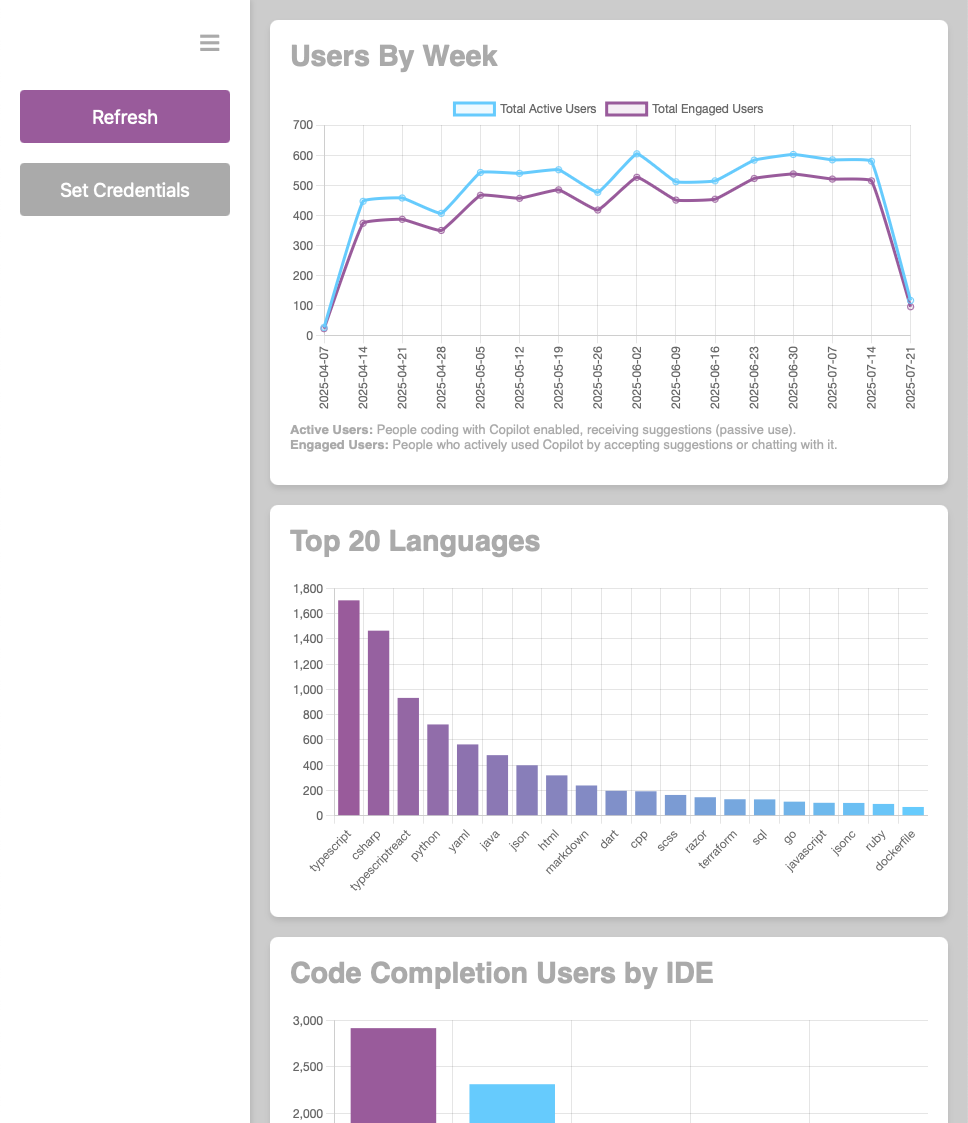
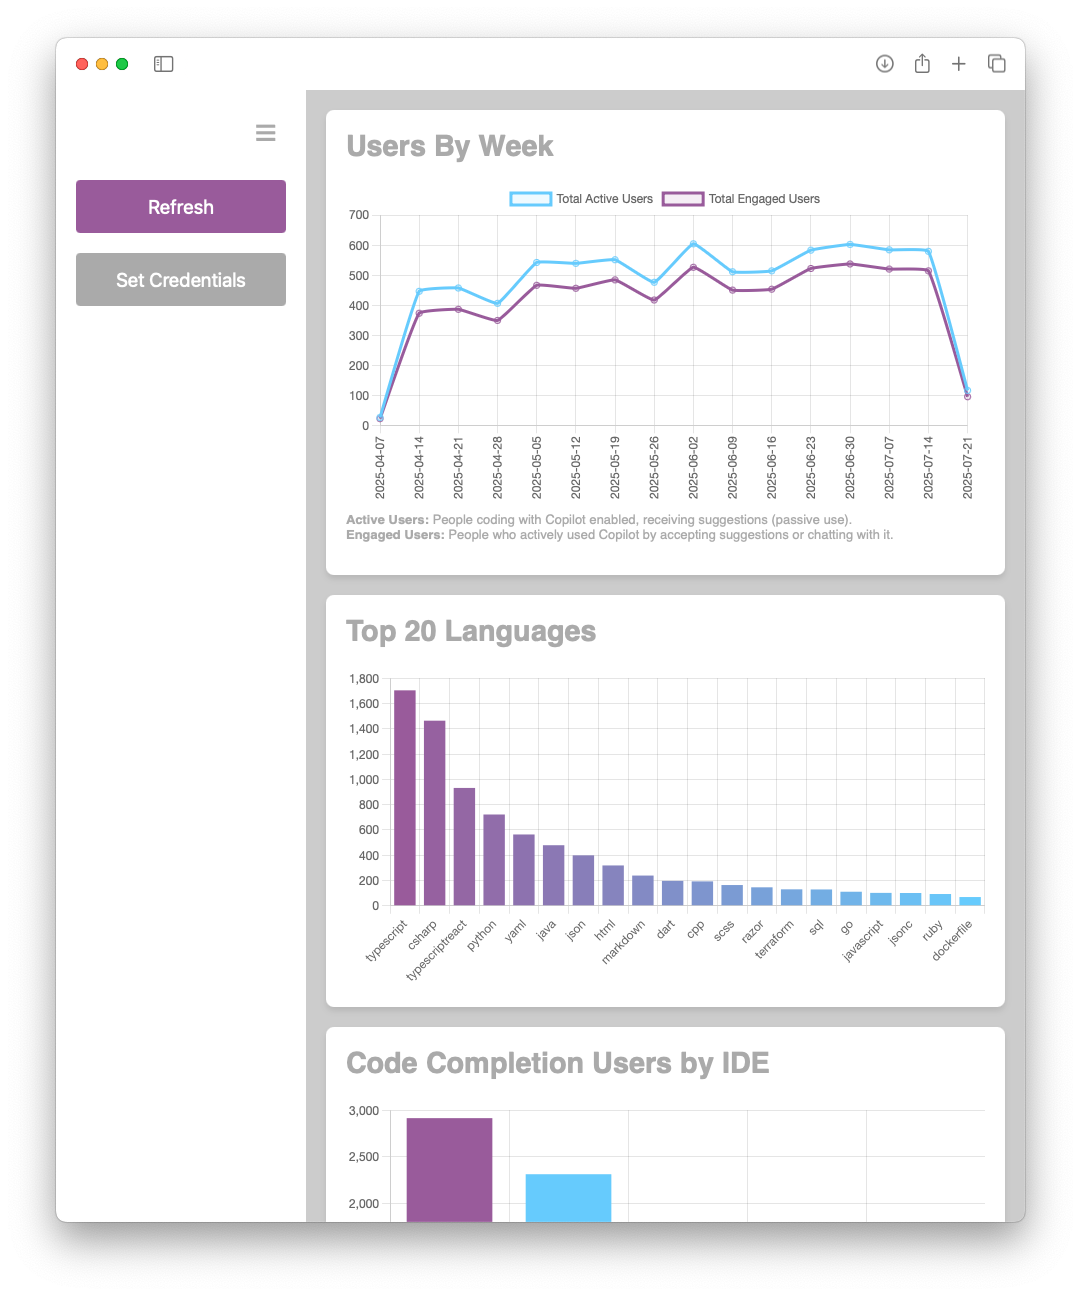
Update page background and screenshot

diff --git a/webpage/style.css b/webpage/style.css
@@ -7,7 +7,7 @@
 
 body {
   font-family: sans-serif;
-  background-color: #CCCCCC;
+  background-color: white;
   margin: 0;
   padding: 0;
   height: 100vh;
@@ -39,6 +39,7 @@ body.sidebar-collapsed #sidebar {
   grid-area: main;
   padding: var(--spacing-unit);
   overflow-y: auto;
+  background-color: #CCCCCC;
 }
 
 .sidebar-header {
